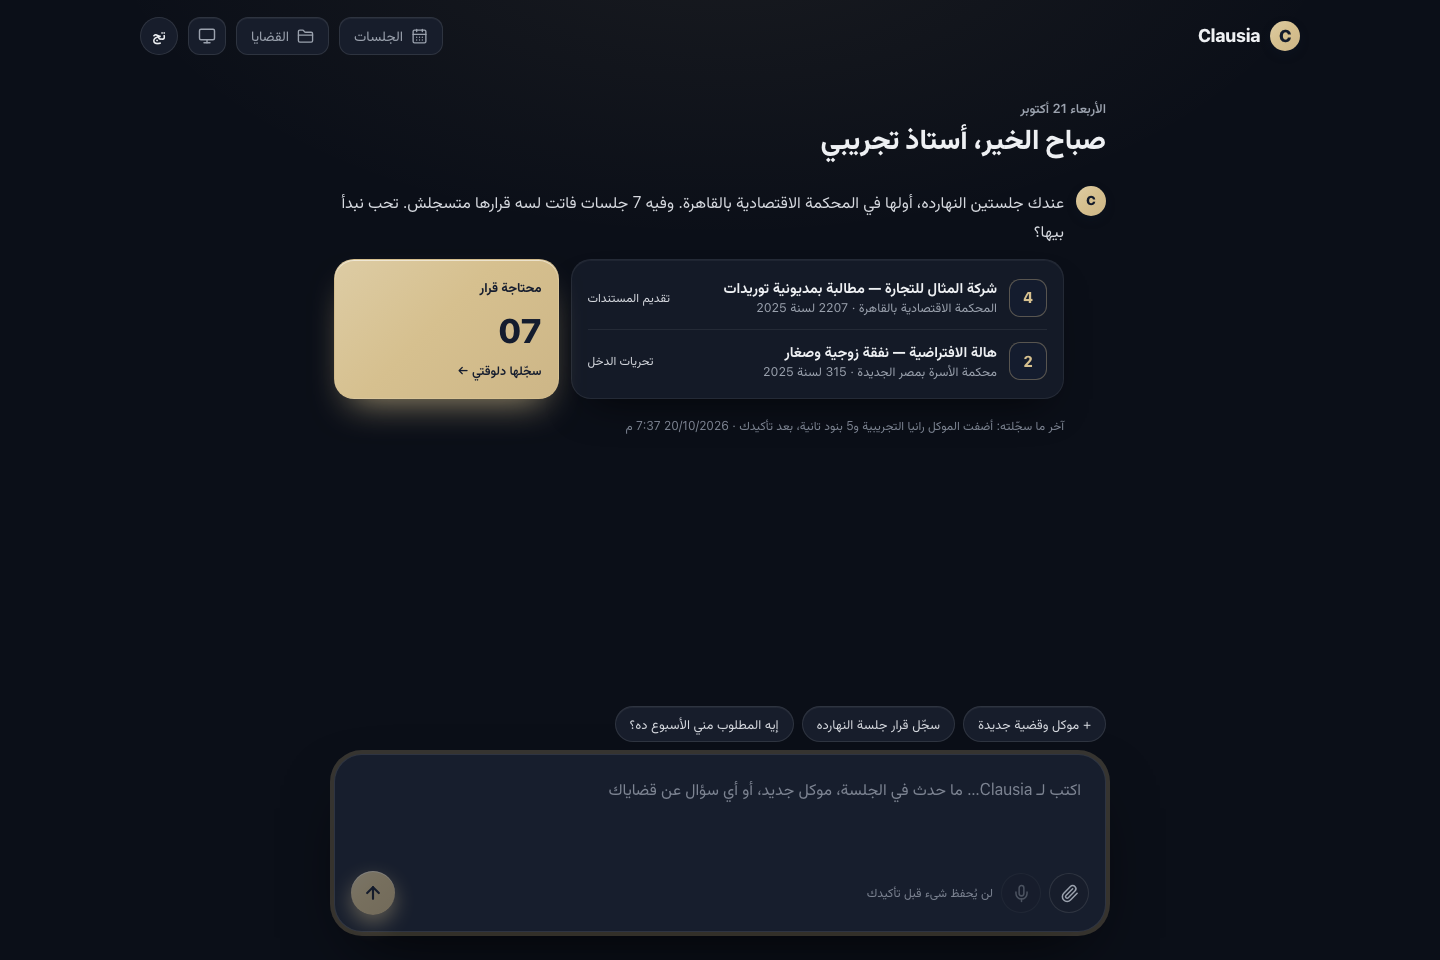
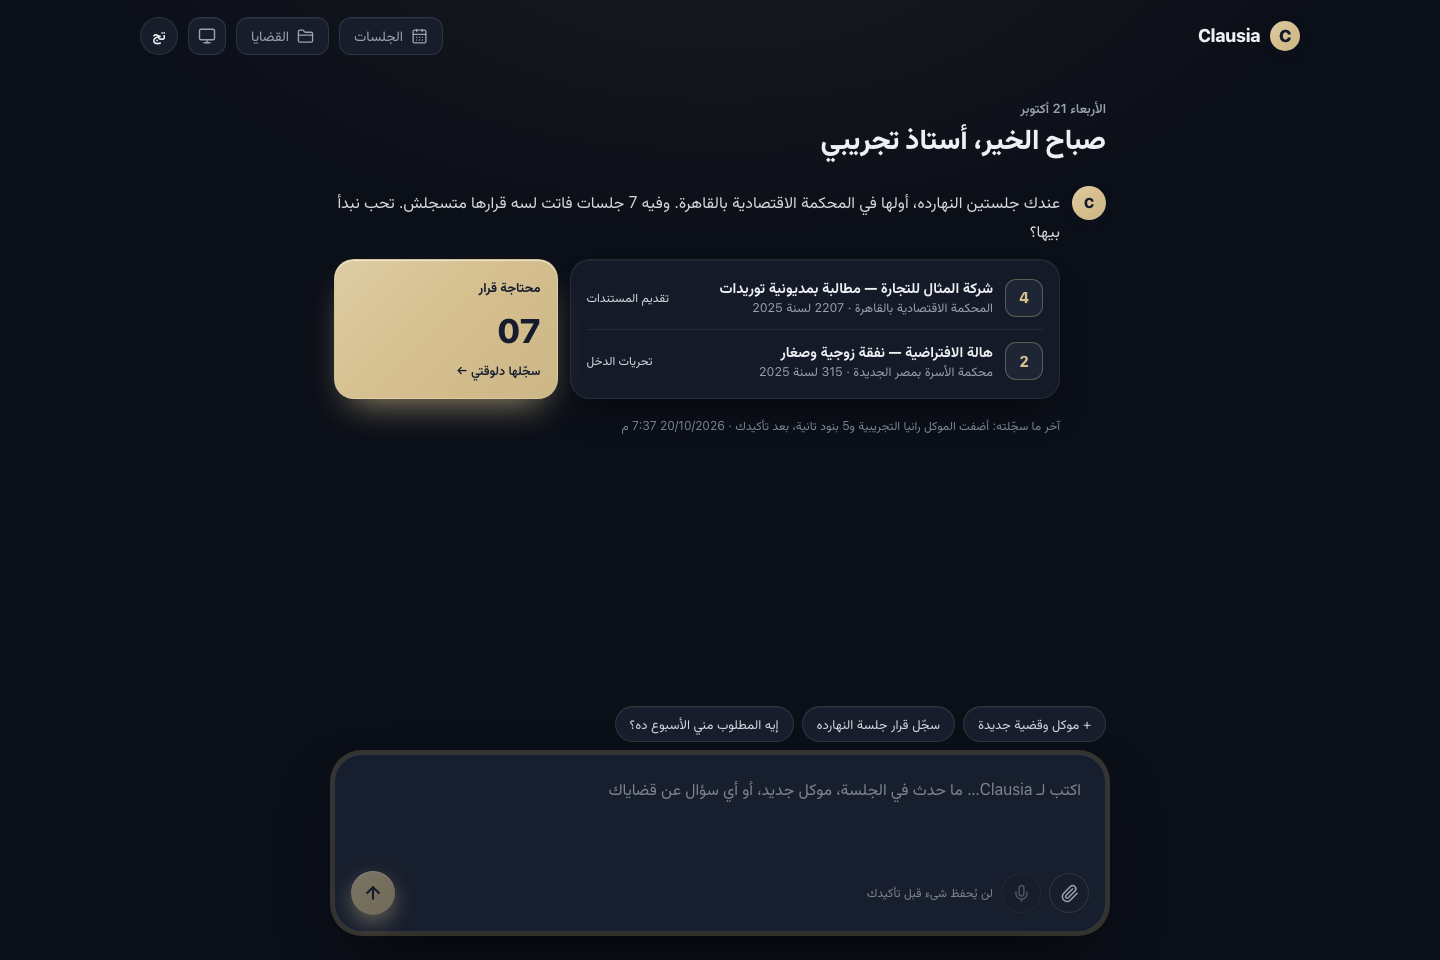
Home: use base dark: variant for the circuit tile, short mobile chip labels, single sticky wrapper; refresh screenshots

diff --git a/src/components/home/HomeView.tsx b/src/components/home/HomeView.tsx
@@ -11,8 +11,8 @@ import { UndecidedRow, UndecidedTile } from "./Undecided";
 
 const CHIPS = [
   { label: "+ موكل وقضية جديدة", text: "موكل جديد: " },
-  { label: "سجّل قرار جلسة النهارده", text: "قرار جلسة النهارده في قضية " },
-  { label: "إيه المطلوب مني الأسبوع ده؟", text: "إيه المطلوب مني الأسبوع ده؟" },
+  { label: "سجّل قرار جلسة النهارده", short: "سجّل قرار جلسة", text: "قرار جلسة النهارده في قضية " },
+  { label: "إيه المطلوب مني الأسبوع ده؟", short: "مطلوب مني إيه؟", text: "إيه المطلوب مني الأسبوع ده؟" },
 ];
 
 export function HomeView({ data, displayName }: { data: HomeData; displayName: string }) {
@@ -40,7 +40,8 @@ export function HomeView({ data, displayName }: { data: HomeData; displayName: s
       <div className="min-h-10 flex-1" />
 
       <div className="sticky bottom-0 z-20 -mx-1.5 bg-gradient-to-t from-bg from-60% to-transparent px-1.5 pb-[calc(26px+env(safe-area-inset-bottom))] pt-[30px] sm:mx-0 sm:px-0 sm:pb-7 sm:pt-5">
-        <Composer size="hero" target={{ kind: "new" }} chips={CHIPS} />
+        {/* this wrapper gives the mockup's fade and bottom spacing, so the composer's own sticky is off (no double) */}
+        <Composer size="hero" target={{ kind: "new" }} chips={CHIPS} sticky={false} />
       </div>
     </div>
   );

diff --git a/src/components/home/TodayCard.tsx b/src/components/home/TodayCard.tsx
@@ -12,7 +12,7 @@ function Row({ h }: { h: HearingWithCase }) {
   return (
     <Link href={`/cases/${h.case_id}`} className="group flex items-center gap-2.5 py-[9px] sm:gap-3 sm:py-[11px]">
       <span title={h.case.circuit ?? undefined}
-        className="font-num inline-flex size-[34px] shrink-0 items-center justify-center rounded-[10px] border border-[var(--accent-edge)] bg-ink-solid text-[14px] font-extrabold text-gold sm:size-[38px] sm:rounded-[11px] sm:text-[15px]">
+        className="font-num inline-flex size-[34px] shrink-0 items-center justify-center rounded-[10px] bg-ink-solid text-[14px] font-extrabold text-gold sm:size-[38px] sm:rounded-[11px] sm:text-[15px] dark:border dark:border-[var(--accent-edge)] dark:bg-card-3">
         {circuitNo(h.case.circuit)}
       </span>
       <span className="min-w-0 flex-1">

diff --git a/src/components/home/Undecided.tsx b/src/components/home/Undecided.tsx
@@ -4,7 +4,7 @@ import Link from "next/link";
 import { two } from "@/components/shell/PageHero";
 
 const HREF = "/hearings?filter=undecided";
-const GOLD = "border border-gold-text/25 bg-accent-grad text-ink-solid shadow-accent transition hover:brightness-105";
+const GOLD = "border border-gold-text/25 bg-accent-grad dark:border-border text-ink-solid shadow-accent transition hover:brightness-105";
 const QUIET = "border border-border-2 bg-card text-text shadow-card";
 
 export function UndecidedTile({ count, className = "" }: { count: number; className?: string }) {
